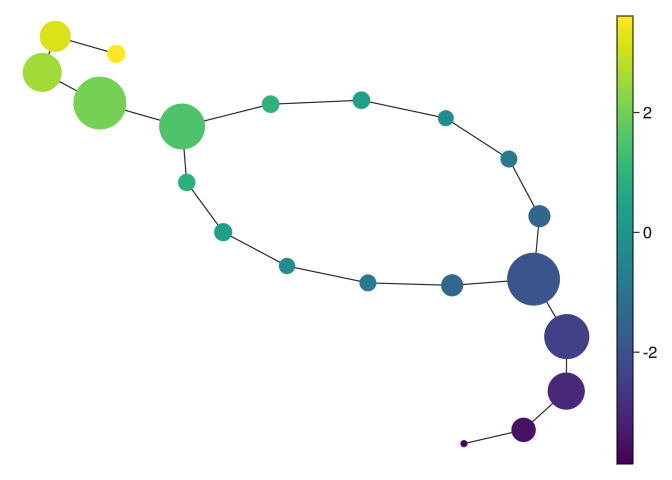
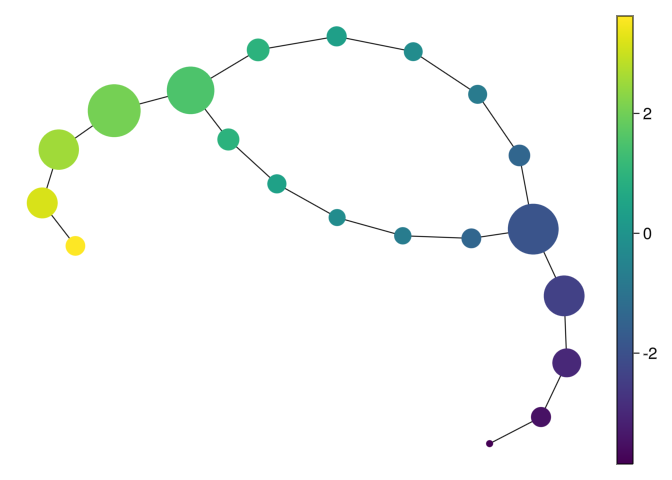
Add files via upload

diff --git a/mapper.html b/mapper.html
@@ -255,9 +255,9 @@ V = \{ l(p); \; p = f^{-1}(c) \; \text{for} \; c \in C\}
 <div class="sourceCode cell-code" id="cb2"><pre class="sourceCode julia code-with-copy"><code class="sourceCode julia"><span id="cb2-1"><a href="#cb2-1" aria-hidden="true" tabindex="-1"></a>X <span class="op">=</span> gd.<span class="fu">torus</span>(<span class="fl">2000</span>)</span></code><button title="Copy to Clipboard" class="code-copy-button"><i class="bi"></i></button></pre></div>
 <div class="cell-output cell-output-display" data-execution_count="3">
 <pre><code>3×2000 Matrix{Float64}:
- -0.522073    0.720121  -3.77101   …  -2.34387   1.56273   -3.78366
-  1.93461     2.63514   -0.589572      1.04003   1.43276    0.669785
- -0.0872922  -0.963353  -0.576886      0.900067  0.475205   0.538721</code></pre>
+ -2.83916    3.27182    2.92933   …  -2.96572    2.88682   -2.23586
+ -2.64764   -1.36194   -1.92588       0.469621   0.211599   1.77717
+ -0.471029   0.839104  -0.862706     -0.999996  -0.994426  -0.989595</code></pre>
 </div>
 </div>
 <p><strong>Important</strong>: when using TDAmapper, your point cloud must be in column-major order. That is: each point of <span class="math inline">\(X\)</span> must be a column of <code>X</code>, not a row (as is usual with dataframes). This is so because <a href="https://github.com/JuliaStats/Distances.jl">Distances.jl</a>, <a href="https://github.com/KristofferC/NearestNeighbors.jl">NearestNeighbors.jl</a>, <a href="https://github.com/JuliaStats/Clustering.jl">Clustering.jl</a> and many other packages for calculations with metric spaces use the column-major order for performance reasons.</p>
@@ -284,11 +284,11 @@ V = \{ l(p); \; p = f^{-1}(c) \; \text{for} \; c \in C\}
 <div class="sourceCode cell-code" id="cb7"><pre class="sourceCode julia code-with-copy"><code class="sourceCode julia"><span id="cb7-1"><a href="#cb7-1" aria-hidden="true" tabindex="-1"></a>C[<span class="fl">1</span><span class="op">:</span><span class="fl">5</span>]</span></code><button title="Copy to Clipboard" class="code-copy-button"><i class="bi"></i></button></pre></div>
 <div class="cell-output cell-output-display" data-execution_count="7">
 <pre><code>5-element Vector{Interval}:
- Interval(-4.7092185f0, -3.7099314f0)
- Interval(-4.1381974f0, -3.1389103f0)
- Interval(-3.567176f0, -2.5678892f0)
- Interval(-2.996155f0, -1.9968679f0)
- Interval(-2.425134f0, -1.4258468f0)</code></pre>
+ Interval(-4.7077045f0, -3.7088177f0)
+ Interval(-4.1369123f0, -3.1380253f0)
+ Interval(-3.5661197f0, -2.5672326f0)
+ Interval(-2.995327f0, -1.9964402f0)
+ Interval(-2.4245346f0, -1.4256476f0)</code></pre>
 </div>
 </div>
 <p>For the clustering algorithm we choose the DBSCAN with radius 1:</p>
